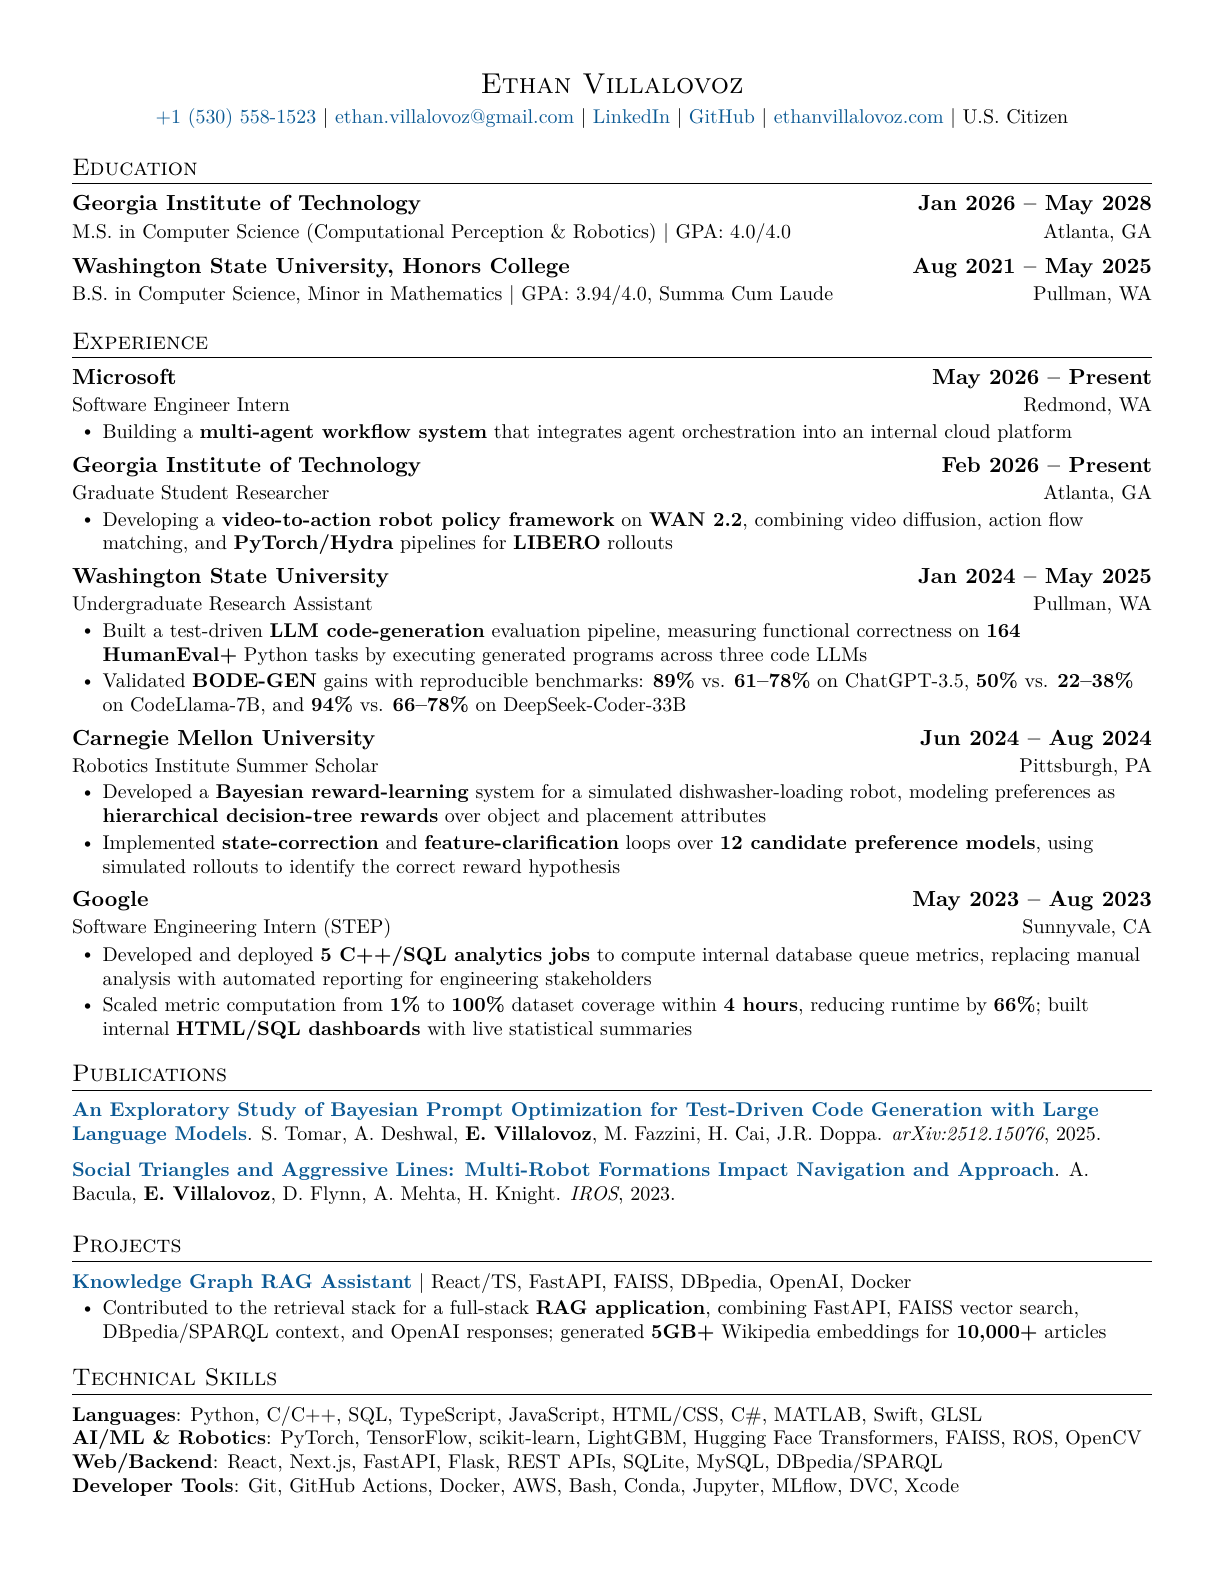
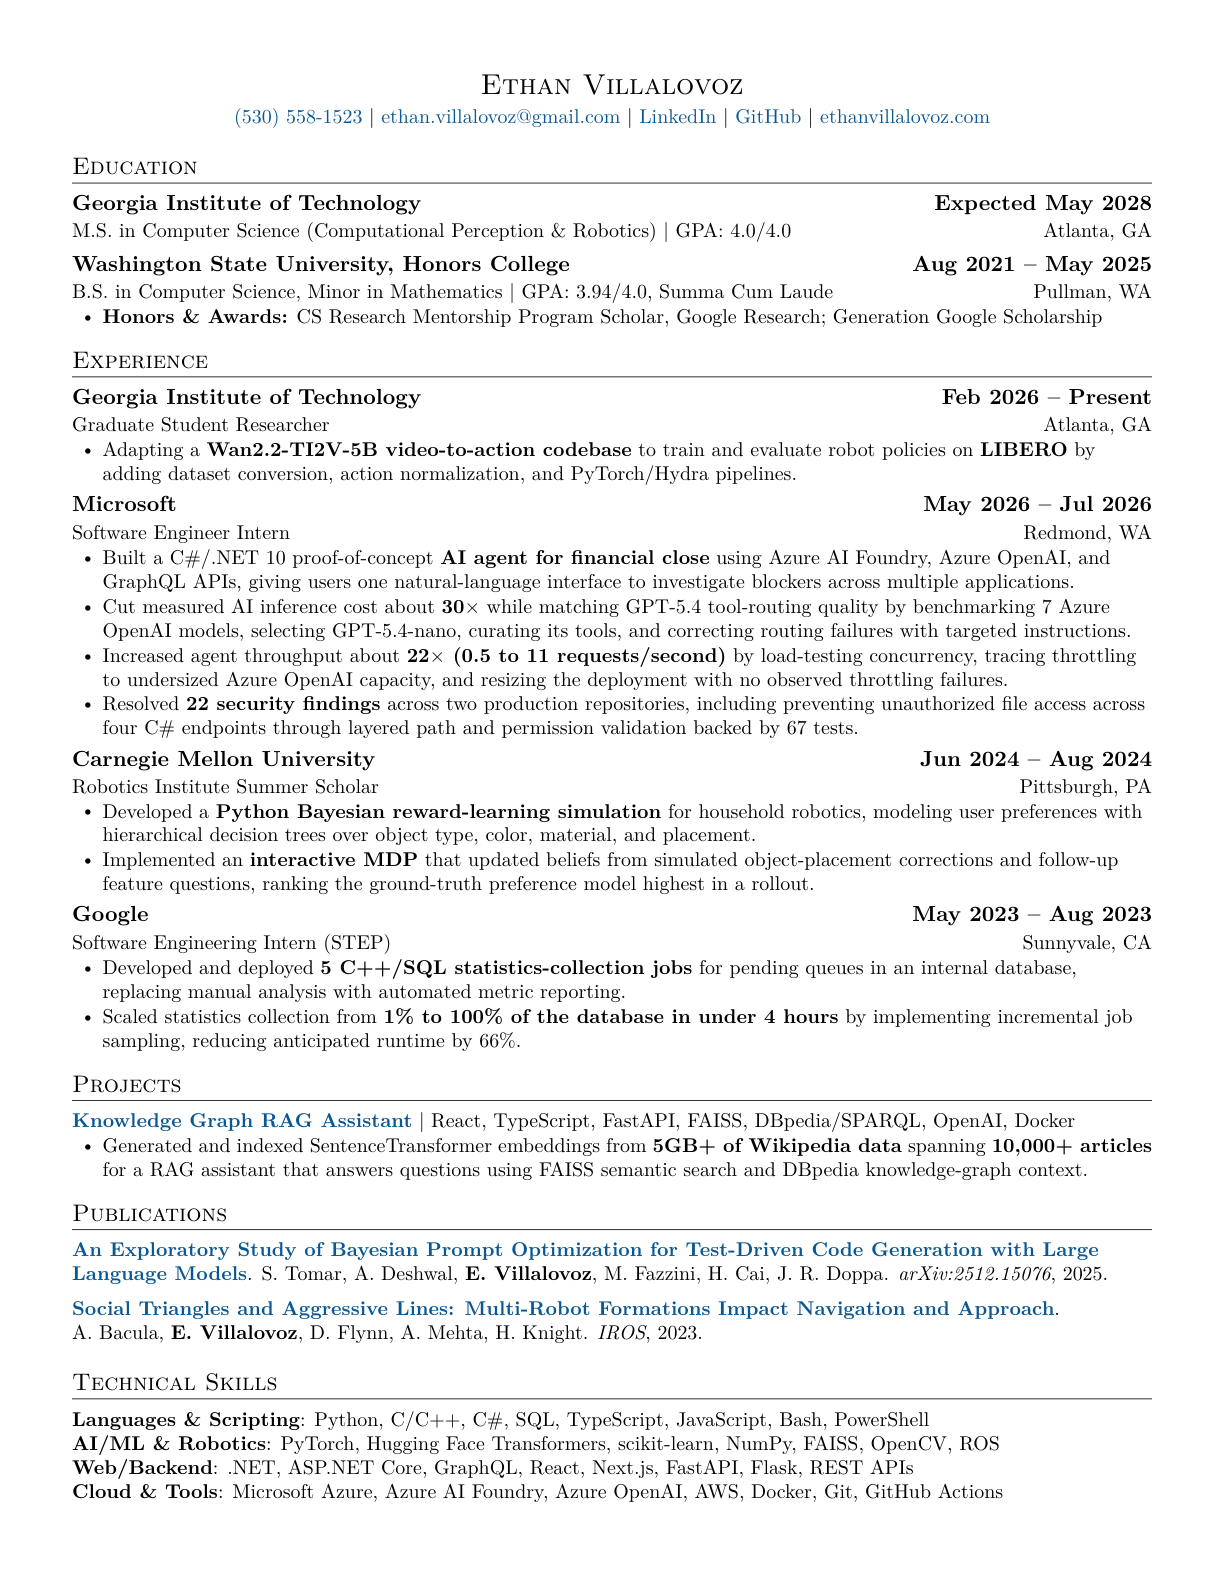
Update final resume example (#7)
## What changed

- Replaced the technical resume example source with the finalized
universal resume.
- Regenerated the committed example PDF and 144 DPI preview.
- Recorded the example refresh in the changelog.
- Left the neutral starter resume and academic CV unchanged.

## Why

The repository example should reflect the final resume produced from
this template and match the version published on the portfolio and
LinkedIn.

## Validation

- Compiled all four LaTeX entry points successfully with Tectonic.
- Verified expected page counts, US Letter geometry, PDF metadata,
extractable text, and section markers.
- Confirmed the repository source renders pixel-identically to the
finalized PDF.
- Confirmed `docs/resume.pdf` matches the finalized artifact SHA-256
exactly.

diff --git a/src/resume.tex b/src/resume.tex
@@ -118,12 +118,11 @@
 \begin{center}
     {\Large \scshape Ethan Villalovoz} \\ \vspace{1pt}
     {\small
-        \resumelink{tel:+15305581523}{+1 (530) 558-1523} $|$
+        \resumelink{tel:+15305581523}{(530) 558-1523} $|$
         \resumelink{mailto:ethan.villalovoz@gmail.com}{ethan.villalovoz@gmail.com} $|$
         \resumelink{https://www.linkedin.com/in/ethanvillalovoz/}{LinkedIn} $|$
         \resumelink{https://github.com/ethanvillalovoz}{GitHub} $|$
-        \resumelink{https://ethanvillalovoz.com}{ethanvillalovoz.com} $|$
-        U.S.~Citizen
+        \resumelink{https://ethanvillalovoz.com}{ethanvillalovoz.com}
     }
 \end{center}
 
@@ -132,12 +131,15 @@
   \resumeSubHeadingListStart
 
     \resumeSubheading
-      {Georgia Institute of Technology}{Jan 2026 -- May 2028}
+      {Georgia Institute of Technology}{Expected May 2028}
       {M.S. in Computer Science (Computational Perception \& Robotics) | GPA: 4.0/4.0}{Atlanta, GA}
 
     \resumeSubheading
       {Washington State University, Honors College}{Aug 2021 -- May 2025}
       {B.S. in Computer Science, Minor in Mathematics | GPA: 3.94/4.0, Summa Cum Laude}{Pullman, WA}
+      \resumeItemListStart
+        \resumeItem{\textbf{Honors \& Awards:} CS Research Mentorship Program Scholar, Google Research; Generation Google Scholarship}
+      \resumeItemListEnd
 
   \resumeSubHeadingListEnd
 
@@ -146,44 +148,51 @@
   \resumeSubHeadingListStart
 
     \resumeSubheading
-      {Microsoft}{May 2026 -- Present}
-      {Software Engineer Intern}{Redmond, WA}
-      \resumeItemListStart
-        \resumeItem{Building a \textbf{multi-agent workflow system} that integrates agent orchestration into an internal cloud platform}
-      \resumeItemListEnd
-
-    \resumeSubheading
       {Georgia Institute of Technology}{Feb 2026 -- Present}
       {Graduate Student Researcher}{Atlanta, GA}
       \resumeItemListStart
-        \resumeItem{Developing a \textbf{video-to-action robot policy framework} on \textbf{WAN 2.2}, combining video diffusion, action flow matching, and \textbf{PyTorch/Hydra} pipelines for \textbf{LIBERO} rollouts}
+        \resumeItem{Adapting a \textbf{Wan2.2-TI2V-5B video-to-action codebase} to train and evaluate robot policies on \textbf{LIBERO} by adding dataset conversion, action normalization, and PyTorch/Hydra pipelines.}
       \resumeItemListEnd
 
     \resumeSubheading
-      {Washington State University}{Jan 2024 -- May 2025}
-      {Undergraduate Research Assistant}{Pullman, WA}
+      {Microsoft}{May 2026 -- Jul 2026}
+      {Software Engineer Intern}{Redmond, WA}
       \resumeItemListStart
-        \resumeItem{Built a test-driven \textbf{LLM code-generation} evaluation pipeline, measuring functional correctness on \textbf{164 HumanEval+} Python tasks by executing generated programs across three code LLMs}
-        \resumeItem{Validated \textbf{BODE-GEN} gains with reproducible benchmarks: \textbf{89\%} vs. \textbf{61--78\%} on ChatGPT-3.5, \textbf{50\%} vs. \textbf{22--38\%} on CodeLlama-7B, and \textbf{94\%} vs. \textbf{66--78\%} on DeepSeek-Coder-33B}
+        \resumeItem{Built a C\#/.NET 10 proof-of-concept \textbf{AI agent for financial close} using Azure AI Foundry, Azure OpenAI, and GraphQL APIs, giving users one natural-language interface to investigate blockers across multiple applications.}
+        \resumeItem{Cut measured AI inference cost about \textbf{30$\times$} while matching GPT-5.4 tool-routing quality by benchmarking 7 Azure OpenAI models, selecting GPT-5.4-nano, curating its tools, and correcting routing failures with targeted instructions.}
+        \resumeItem{Increased agent throughput about \textbf{22$\times$ (0.5 to 11 requests/second)} by load-testing concurrency, tracing throttling to undersized Azure OpenAI capacity, and resizing the deployment with no observed throttling failures.}
+        \resumeItem{Resolved \textbf{22 security findings} across two production repositories, including preventing unauthorized file access across four C\# endpoints through layered path and permission validation backed by 67 tests.}
       \resumeItemListEnd
 
     \resumeSubheading
       {Carnegie Mellon University}{Jun 2024 -- Aug 2024}
       {Robotics Institute Summer Scholar}{Pittsburgh, PA}
       \resumeItemListStart
-        \resumeItem{Developed a \textbf{Bayesian reward-learning} system for a simulated dishwasher-loading robot, modeling preferences as \textbf{hierarchical decision-tree rewards} over object and placement attributes}
-        \resumeItem{Implemented \textbf{state-correction} and \textbf{feature-clarification} loops over \textbf{12 candidate preference models}, using simulated rollouts to identify the correct reward hypothesis}
+        \resumeItem{Developed a \textbf{Python Bayesian reward-learning simulation} for household robotics, modeling user preferences with hierarchical decision trees over object type, color, material, and placement.}
+        \resumeItem{Implemented an \textbf{interactive MDP} that updated beliefs from simulated object-placement corrections and follow-up feature questions, ranking the ground-truth preference model highest in a rollout.}
       \resumeItemListEnd
 
     \resumeSubheading
       {Google}{May 2023 -- Aug 2023}
       {Software Engineering Intern (STEP)}{Sunnyvale, CA}
       \resumeItemListStart
-        \resumeItem{Developed and deployed \textbf{5 C++/SQL analytics jobs} to compute internal database queue metrics, replacing manual analysis with automated reporting for engineering stakeholders}
-        \resumeItem{Scaled metric computation from \textbf{1\%} to \textbf{100\%} dataset coverage within \textbf{4 hours}, reducing runtime by \textbf{66\%}; built internal \textbf{HTML/SQL dashboards} with live statistical summaries}
+        \resumeItem{Developed and deployed \textbf{5 C++/SQL statistics-collection jobs} for pending queues in an internal database, replacing manual analysis with automated metric reporting.}
+        \resumeItem{Scaled statistics collection from \textbf{1\% to 100\% of the database in under 4 hours} by implementing incremental job sampling, reducing anticipated runtime by 66\%.}
       \resumeItemListEnd
 
   \resumeSubHeadingListEnd
+
+%-----------PROJECTS-----------
+\section{Projects}
+    \resumeSubHeadingListStart
+
+      \resumeProjectHeading
+          {\resumelink{https://knowledge-graph-rag.github.io/}{\textbf{Knowledge Graph RAG Assistant}} $|$ React, TypeScript, FastAPI, FAISS, DBpedia/SPARQL, OpenAI, Docker}{}
+          \resumeItemListStart
+            \resumeItem{Generated and indexed SentenceTransformer embeddings from \textbf{5GB+ of Wikipedia data} spanning \textbf{10{,}000+ articles} for a RAG assistant that answers questions using FAISS semantic search and DBpedia knowledge-graph context.}
+          \resumeItemListEnd
+
+    \resumeSubHeadingListEnd
 
 %-----------PUBLICATIONS-----------
 \section{Publications}
@@ -191,39 +200,27 @@
 
     \item \small{
       \resumelink{https://arxiv.org/abs/2512.15076}{\textbf{An Exploratory Study of Bayesian Prompt Optimization for Test-Driven Code Generation with Large Language Models}}.
-      S. Tomar, A. Deshwal, \textbf{E. Villalovoz}, M. Fazzini, H. Cai, J.R. Doppa.
+      S. Tomar, A. Deshwal, \textbf{E. Villalovoz}, M. Fazzini, H. Cai, J. R. Doppa.
       \emph{arXiv:2512.15076}, 2025.
     }
 
     \item \small{
       \resumelink{https://ethanvillalovoz.com/data/research/2023_OSU_Social_Triangles_and_Aggressive_Lines/2023_IROS_Social_Triangles_Agressive_Lines_bacula.pdf}{\textbf{Social Triangles and Aggressive Lines: Multi-Robot Formations Impact Navigation and Approach}}.
-      A. Bacula, \textbf{E. Villalovoz}, D. Flynn, A. Mehta, H. Knight.
+      A.~Bacula, \textbf{E.~Villalovoz}, D.~Flynn, A.~Mehta, H.~Knight.
       \emph{IROS}, 2023.
     }
 
   \end{itemize}
-
-%-----------PROJECTS-----------
-\section{Projects}
-    \resumeSubHeadingListStart
-
-      \resumeProjectHeading
-          {\textbf{\resumelink{https://github.com/ethanvillalovoz/knowledge-graph-rag-assistant}{Knowledge Graph RAG Assistant}} $|$ {React/TS, FastAPI, FAISS, DBpedia, OpenAI, Docker}}{}
-          \resumeItemListStart
-            \resumeItem{Contributed to the retrieval stack for a full-stack \textbf{RAG application}, combining FastAPI, FAISS vector search, DBpedia/SPARQL context, and OpenAI responses; generated \textbf{5GB+} Wikipedia embeddings for \textbf{10{,}000+} articles}
-          \resumeItemListEnd
-
-    \resumeSubHeadingListEnd
 
 %-----------TECHNICAL SKILLS-----------
 \section{Technical Skills}
  \begin{itemize}[leftmargin=0pt, label={}]
 
     \small{\item{
-     \textbf{Languages}{: Python, C/C++, SQL, TypeScript, JavaScript, HTML/CSS, C\#, MATLAB, Swift, GLSL} \\
-     \textbf{AI/ML \& Robotics}{: PyTorch, TensorFlow, scikit-learn, LightGBM, Hugging Face Transformers, FAISS, ROS, OpenCV} \\
-     \textbf{Web/Backend}{: React, Next.js, FastAPI, Flask, REST APIs, SQLite, MySQL, DBpedia/SPARQL} \\
-     \textbf{Developer Tools}{: Git, GitHub Actions, Docker, AWS, Bash, Conda, Jupyter, MLflow, DVC, Xcode}
+     \textbf{Languages \& Scripting}{: Python, C/C++, C\#, SQL, TypeScript, JavaScript, Bash, PowerShell} \\
+     \textbf{AI/ML \& Robotics}{: PyTorch, Hugging Face Transformers, scikit-learn, NumPy, FAISS, OpenCV, ROS} \\
+     \textbf{Web/Backend}{: .NET, ASP.NET Core, GraphQL, React, Next.js, FastAPI, Flask, REST APIs} \\
+     \textbf{Cloud \& Tools}{: Microsoft Azure, Azure AI Foundry, Azure OpenAI, AWS, Docker, Git, GitHub Actions}
     }}
 
  \end{itemize}

diff --git a/CHANGELOG.md b/CHANGELOG.md
@@ -4,6 +4,10 @@ All notable changes to the template are documented here.
 
 ## [Unreleased]
 
+### Changed
+
+- Updated the technical resume example and rendered preview to the finalized universal resume.
+
 ## [1.1.0] - 2026-07-11
 
 ### Added
